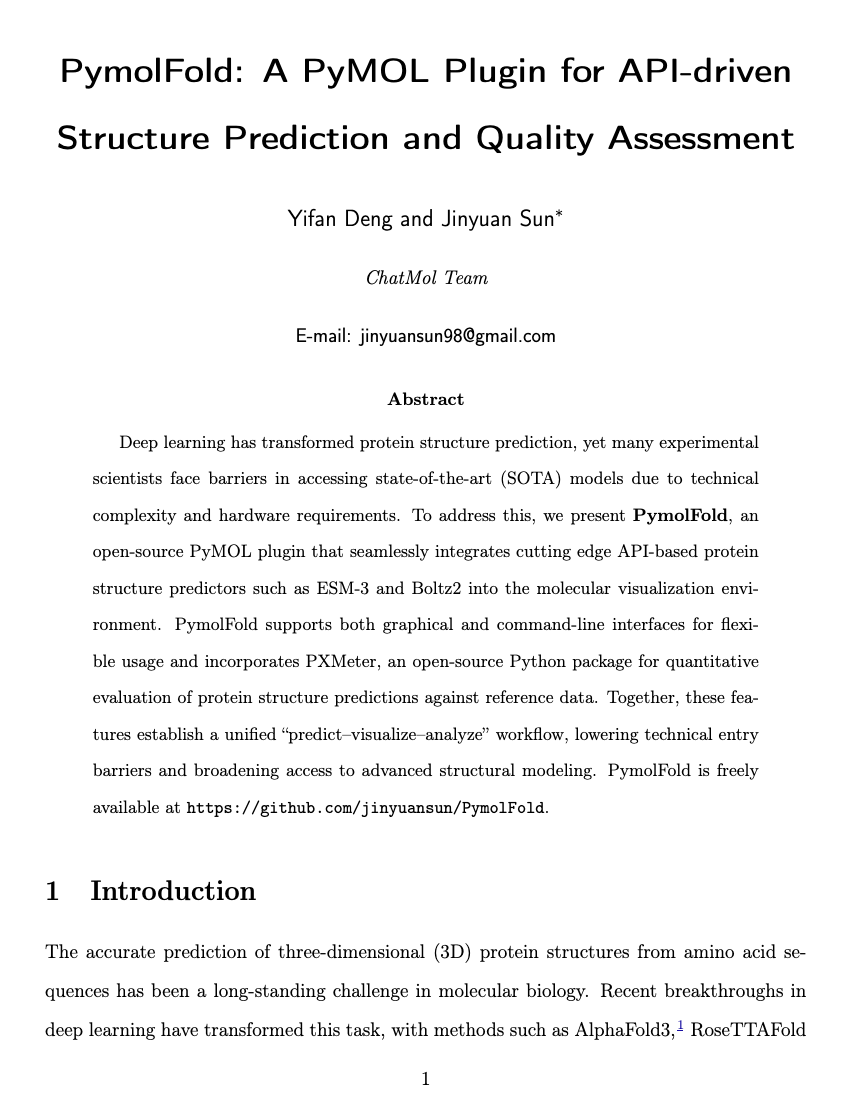
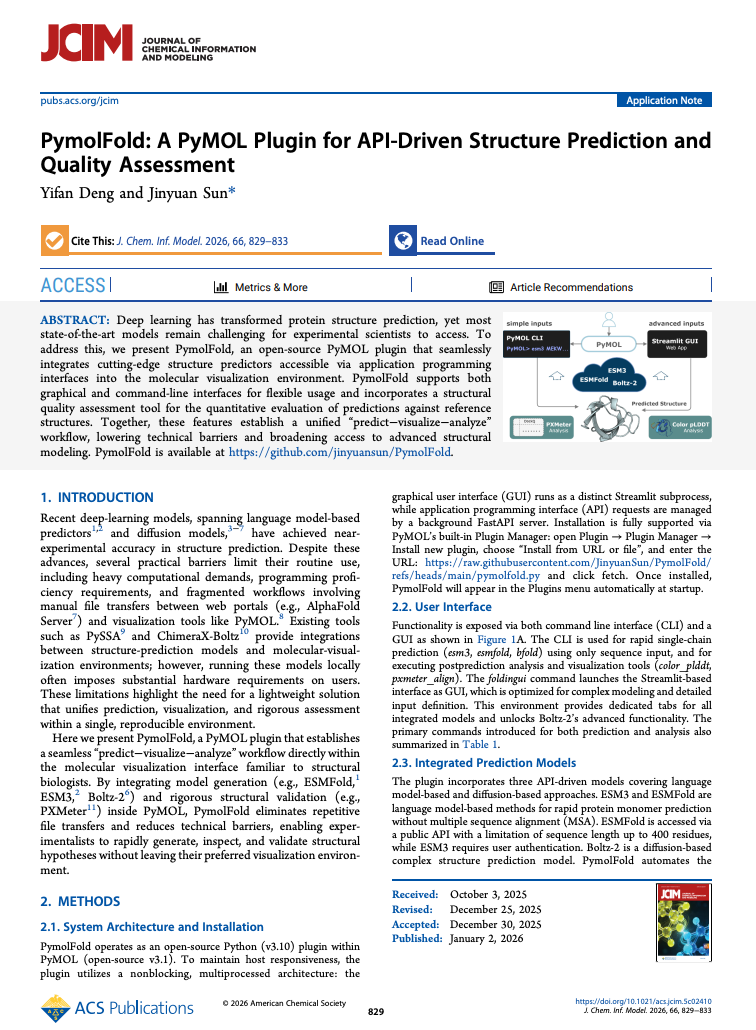
update paper link

Changed region(s): [[0.0304, 0.0, 0.9431, 0.9942], [0.7606, 0.9631, 0.9431, 0.9942], [0.4868, 0.9631, 0.5172, 0.9942]]

diff --git a/index.html b/index.html
@@ -3,7 +3,7 @@
 <head>
     <meta charset="UTF-8">
     <meta name="viewport" content="width=device-width, initial-scale=1.0">
-    <title>ChatMol - Accelerating Biotech with AI</title>
+    <title>ChatMol - Advancing Biological Sciences with AI</title>
     <link href="https://fonts.googleapis.com/css2?family=Inter:wght@300;400;500;600;700;800&display=swap" rel="stylesheet">
     <link rel="icon" href="png/chatmollogo.png">
     <link rel="stylesheet" href="styles.css?v=20260214-4">
@@ -26,7 +26,8 @@
     <div class="hero">
         <div class="hero-glow"></div>
         <h1>
-            Accelerating <span class="gradient-text">Biotech</span><br />
+            Advancing <br />
+            <span class="gradient-text">Biological Sciences</span><br />
             with AI Agents
         </h1>
         <p>
@@ -175,13 +176,17 @@
         <div>
             <h3 style="font-size: 1.6rem; font-weight: 700; margin-bottom: 2rem; text-align: center; letter-spacing: -0.02em;">Research & Publications</h3>
             <div style="display: grid; grid-template-columns: repeat(3, 1fr); gap: 1.5rem;">
-                <div style="background: linear-gradient(135deg, #0f0f0f, #1a1a1a); border: 1px solid var(--border); border-radius: 14px; padding: 1.25rem; transition: all 0.3s;">
-                    <img src="png/ChatMol_copilot_paper.png" alt="ChatMol Copilot Paper" style="width: 100%; border-radius: 10px; border: 1px solid var(--border);">
-                    <p style="color: var(--text-secondary); font-size: 0.85rem; margin-top: 0.75rem; text-align: center;">ChatMol: Interactive Molecular Discovery</p>
+                <div class="paper-card">
+                    <a href="https://aclanthology.org/2024.langmol-1.7/" target="_blank" class="paper-link">
+                        <img src="png/ChatMol_copilot_paper.png" alt="ChatMol Copilot Paper" class="paper-image">
+                        <p style="color: var(--text-secondary); font-size: 0.85rem; margin-top: 0.75rem; text-align: center;">ChatMol: Interactive Molecular Discovery</p>
+                    </a>
                 </div>
-                <div style="background: linear-gradient(135deg, #0f0f0f, #1a1a1a); border: 1px solid var(--border); border-radius: 14px; padding: 1.25rem; transition: all 0.3s;">
-                    <img src="png/Pymolfold_paper.png" alt="PymolFold Paper" style="width: 100%; border-radius: 10px; border: 1px solid var(--border);">
-                    <p style="color: var(--text-secondary); font-size: 0.85rem; margin-top: 0.75rem; text-align: center;">PymolFold: AI-Powered PyMOL Plugin</p>
+                <div class="paper-card">
+                    <a href="https://pubs.acs.org/doi/10.1021/acs.jcim.5c02410" target="_blank" class="paper-link">
+                        <img src="png/pymolfold_paper.png" alt="PymolFold Paper" class="paper-image">
+                        <p style="color: var(--text-secondary); font-size: 0.85rem; margin-top: 0.75rem; text-align: center;">PymolFold: AI-Powered PyMOL Plugin</p>
+                    </a>
                 </div>
                 <div style="background: linear-gradient(135deg, #0f0f0f, #1a1a1a); border: 1px solid var(--border); border-radius: 14px; padding: 1.25rem; transition: all 0.3s;">
                     <img src="png/presentation.jpg" alt="ChatMol Presentation" style="width: 100%; border-radius: 10px; border: 1px solid var(--border);">

diff --git a/styles.css b/styles.css
@@ -409,6 +409,39 @@ footer a:hover {
     color: var(--gold-mid);
 }
 
+/* Paper Cards */
+.paper-card {
+    background: linear-gradient(135deg, #0f0f0f, #1a1a1a);
+    border: 1px solid var(--border);
+    border-radius: 14px;
+    padding: 1.25rem;
+    transition: all 0.3s cubic-bezier(0.4, 0, 0.2, 1);
+    cursor: pointer;
+}
+
+.paper-card:hover {
+    border-color: var(--border-hover);
+    transform: translateY(-6px);
+    box-shadow: 0 12px 32px rgba(200, 168, 78, 0.2);
+}
+
+.paper-link {
+    text-decoration: none;
+    display: block;
+}
+
+.paper-image {
+    width: 100%;
+    border-radius: 10px;
+    border: 1px solid var(--border);
+    transition: all 0.3s;
+}
+
+.paper-card:hover .paper-image {
+    border-color: var(--gold-start);
+    box-shadow: 0 4px 16px rgba(200, 168, 78, 0.3);
+}
+
 /* Responsive */
 @media (max-width: 768px) {
     .nav-links {
